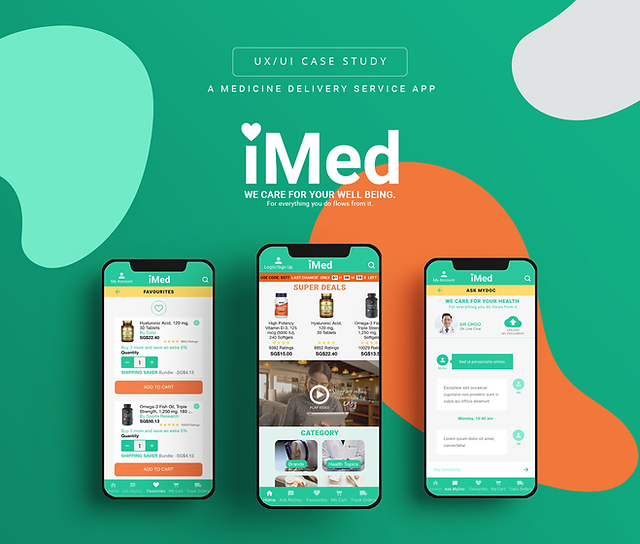
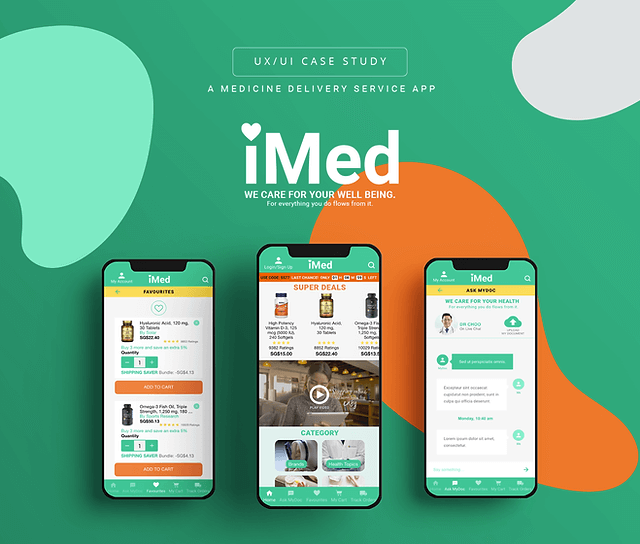
Added the same images but this time compressed for better load times, also added lazy loading to all the index.html img tags

diff --git a/src/index.html b/src/index.html
@@ -15,7 +15,7 @@
         <header>
             <nav id="fixed-nav">
                 <a id="logo">
-                    <img src="../Images/logo.png" alt="johan's-portfolio-logo">
+                    <img loading="lazy" src="../Images/logo.png" alt="johan's-portfolio-logo">
                 </a>
 
                 <div class="right-nav">
@@ -51,7 +51,7 @@
                             </div>
                         </div>
                     </div>
-                    <img id="menu-images" src="../Images/base-image.jpg" alt="picture of me seated in a bench">
+                    <img loading="lazy" id="menu-images" src="../Images/base-image.jpg" alt="picture of me seated in a bench">
                 </div>
                 <button class="hiddenMenu_close-btn">
                     <svg xmlns="http://www.w3.org/2000/svg" width="15" height="16" viewBox="0 0 15 16" fill="none">
@@ -83,7 +83,7 @@
                 </div>
 
                 <div class="right-hero">
-                    <img src="../Images/granny.jpg" alt="Johan Sierra">
+                    <img loading="lazy" src="../Images/granny.jpg" alt="Johan Sierra">
                 </div>
             </section>
             
@@ -147,18 +147,18 @@
             <hr>
 
             <div class="ux-projects-grid">
-                <img class="box one" src="../Images/project-1.jpeg" alt="">
-                <img class="box two" src="../Images/project-2.png" alt="">
-                <img class="box three" src="../Images/project-3.png" alt="">
-                <img class="box four" src="../Images/project-4.png" alt="">
-                <img class="box five" src="../Images/project-5.png" alt="" >
+                <img loading="lazy" class="box one" src="../Images/project-1.jpg" alt="">
+                <img loading="lazy" class="box two" src="../Images/project-2.png" alt="">
+                <img loading="lazy" class="box three" src="../Images/project-3.png" alt="">
+                <img loading="lazy" class="box four" src="../Images/project-4.png" alt="">
+                <img loading="lazy" class="box five" src="../Images/project-5.png" alt="" >
             </div>
 
 
             <div class="frontend-projects-grid">
-                <img class="boxF oneF" src="../Images/projectDev-1.jpeg" alt="">
-                <img class="boxF twoF" src="../Images/projectDev-2.jpeg" alt="">
-                <img class="boxF threeF" src="../Images/projectDev-3.jpg" alt="">
+                <img loading="lazy" class="boxF oneF" src="../Images/projectDev-1.jpg" alt="">
+                <img loading="lazy" class="boxF twoF" src="../Images/projectDev-2.jpg" alt="">
+                <img loading="lazy" class="boxF threeF" src="../Images/projectDev-3.png" alt="">
             </div>
         </section>
 
@@ -190,7 +190,7 @@
         <div class="top-skills-container">
             <div class="skill-container hidden html">
                 <div class="black-bg">
-                    <img src="../Images/html-5.png" width="24"alt="">
+                    <img loading="lazy" src="../Images/html-5.png" width="24"alt="">
                 </div>
 
                 <div class="column">
@@ -201,7 +201,7 @@
 
             <div class="skill-container hidden css">
                 <div class="black-bg">
-                    <img src="../Images/css-3.png" width="24" alt="">
+                    <img loading="lazy" src="../Images/css-3.png" width="24" alt="">
                 </div>
 
                 <div class="column">
@@ -212,7 +212,7 @@
 
             <div class="skill-container hidden js">
                 <div class="black-bg">
-                    <img src="../Images/js.png" width="24" alt="">
+                    <img loading="lazy" src="../Images/js.png" width="24" alt="">
                 </div>
 
                 <div class="column">
@@ -223,7 +223,7 @@
 
             <div class="skill-container hidden react">
                 <div class="black-bg">
-                    <img src="../Images/react.png" width="24" alt="">
+                    <img loading="lazy" src="../Images/react.png" width="24" alt="">
                 </div>
 
                 <div class="column">
@@ -237,7 +237,7 @@
         <div class="bottom-skills-container">
             <div class="skill-container hidden tailwind">
                 <div class="black-bg">
-                    <img src="../Images/Tailwind.png" width="32" alt="">
+                    <img loading="lazy" src="../Images/Tailwind.png" width="32" alt="">
                 </div>
 
                 <div class="column">
@@ -248,7 +248,7 @@
 
             <div class="skill-container hidden wordpress">
                 <div class="black-bg">
-                    <img src="../Images/wordpress (3).png" width="24" alt="">
+                    <img loading="lazy" src="../Images/wordpress (3).png" width="24" alt="">
                 </div>
 
                 <div class="column">
@@ -259,7 +259,7 @@
 
             <div class="skill-container hidden git">
                 <div class="black-bg">
-                    <img src="../Images/Git.png" width="24" alt="">
+                    <img loading="lazy" src="../Images/Git.png" width="24" alt="">
                 </div>
 
                 <div class="column">
@@ -270,7 +270,7 @@
 
             <div class="skill-container hidden  figma">
                 <div class="black-bg">
-                    <img src="../Images/figma.png" width="32" alt="">
+                    <img loading="lazy" src="../Images/figma.png" width="32" alt="">
                 </div>
 
                 <div class="column">
@@ -283,7 +283,7 @@
         <hr class="orange-divider">
 
         <section id="about-me">
-            <img class="changing-image" src="../Images/aboutImg.jpg" width="1500"alt="">
+            <img loading="lazy" class="changing-image" src="../Images/aboutImg.jpg" width="1500"alt="">
 
             <div class="about-right">
                 <span class="about-eyebrow">ABOUT ME</span>
